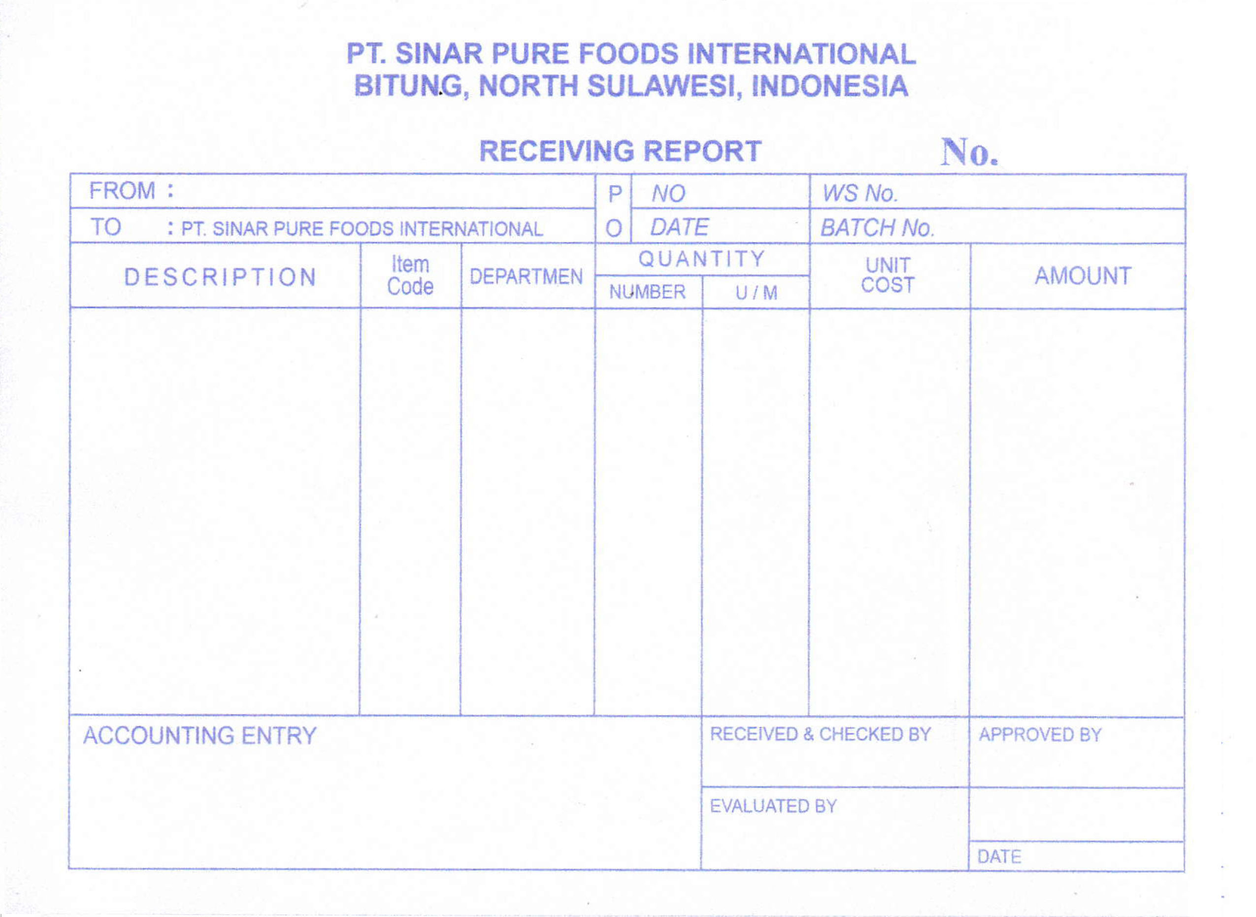
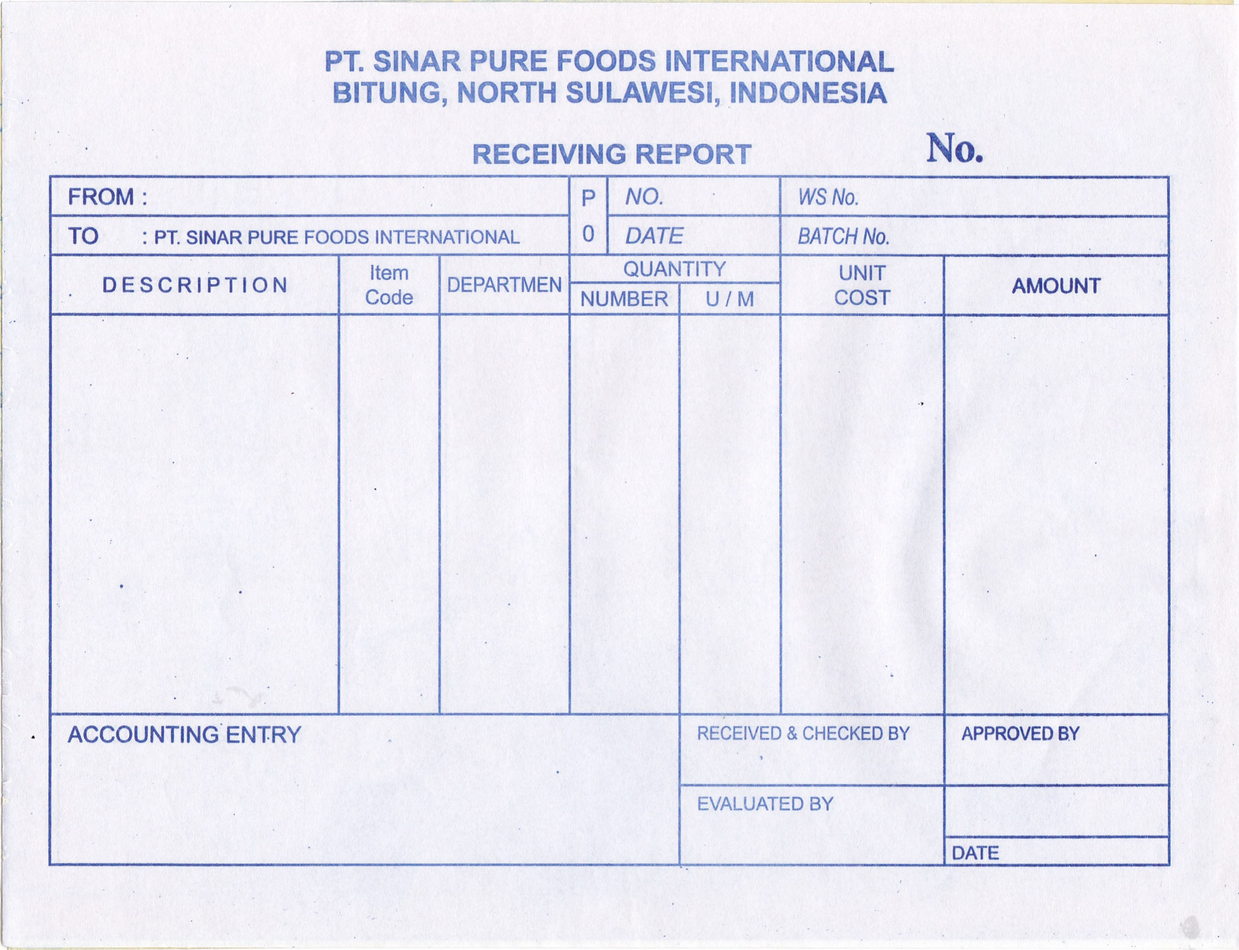
order dr & ts by newest first

diff --git a/app/Http/Controllers/DeliveryController.php b/app/Http/Controllers/DeliveryController.php
@@ -337,7 +337,7 @@ class DeliveryController extends Controller
             ->when($drEnd !== '', function ($subQuery) use ($drEnd) {
                 $subQuery->whereDate('d.dr_date', '<=', $drEnd);
             })
-            ->orderByDesc('d.id');
+            ->orderByDesc('d.created_at');
 
         if (! $this->isSqlServerConnection()) {
             return $query
@@ -352,7 +352,7 @@ class DeliveryController extends Controller
         $rankedIdsQuery = (clone $query)
             ->reorder()
             ->select('d.id')
-            ->selectRaw('ROW_NUMBER() OVER (ORDER BY d.id DESC) as row_num');
+            ->selectRaw('ROW_NUMBER() OVER (ORDER BY d.created_at DESC) as row_num');
 
         $ids = DB::query()
             ->fromSub($rankedIdsQuery, 'ranked_deliveries')

diff --git a/app/Http/Controllers/TransferSlipController.php b/app/Http/Controllers/TransferSlipController.php
@@ -368,7 +368,7 @@ class TransferSlipController extends Controller
             ->when($tsEnd !== '', function ($subQuery) use ($tsEnd) {
                 $subQuery->whereDate('ts.ts_date', '<=', $tsEnd);
             })
-            ->orderByDesc('ts.id');
+            ->orderByDesc('ts.created_at');
 
         if (! $this->isSqlServer()) {
             return $query
@@ -383,7 +383,7 @@ class TransferSlipController extends Controller
         $rankedIdsQuery = (clone $query)
             ->reorder()
             ->select('ts.id')
-            ->selectRaw('ROW_NUMBER() OVER (ORDER BY ts.id DESC) as row_num');
+            ->selectRaw('ROW_NUMBER() OVER (ORDER BY ts.created_at DESC) as row_num');
 
         $ids = DB::query()
             ->fromSub($rankedIdsQuery, 'ranked_ts')
